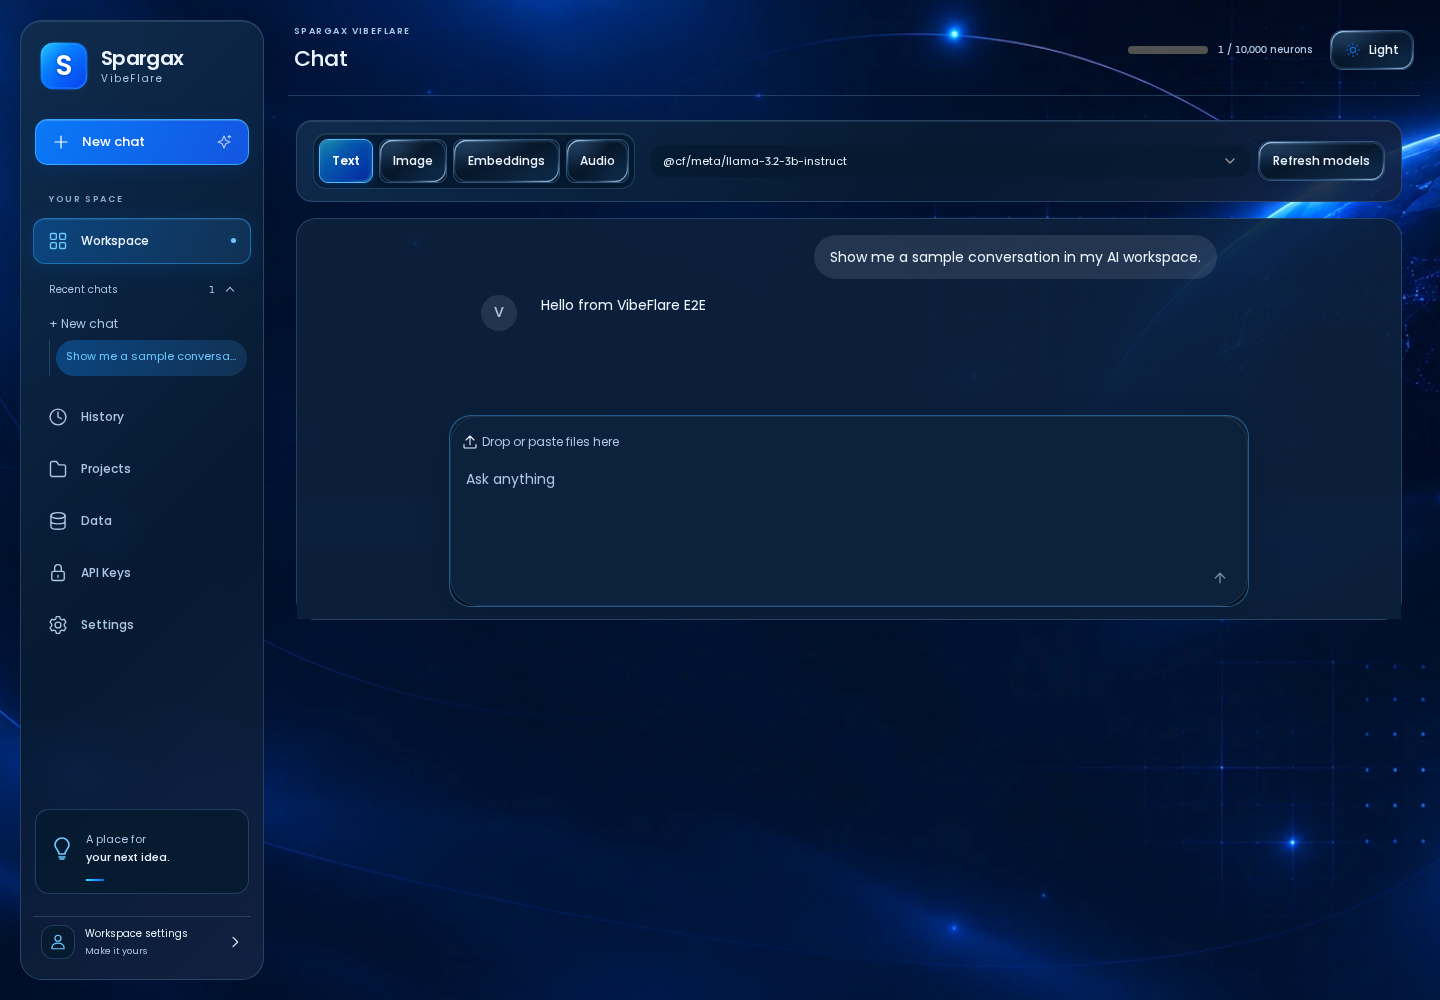
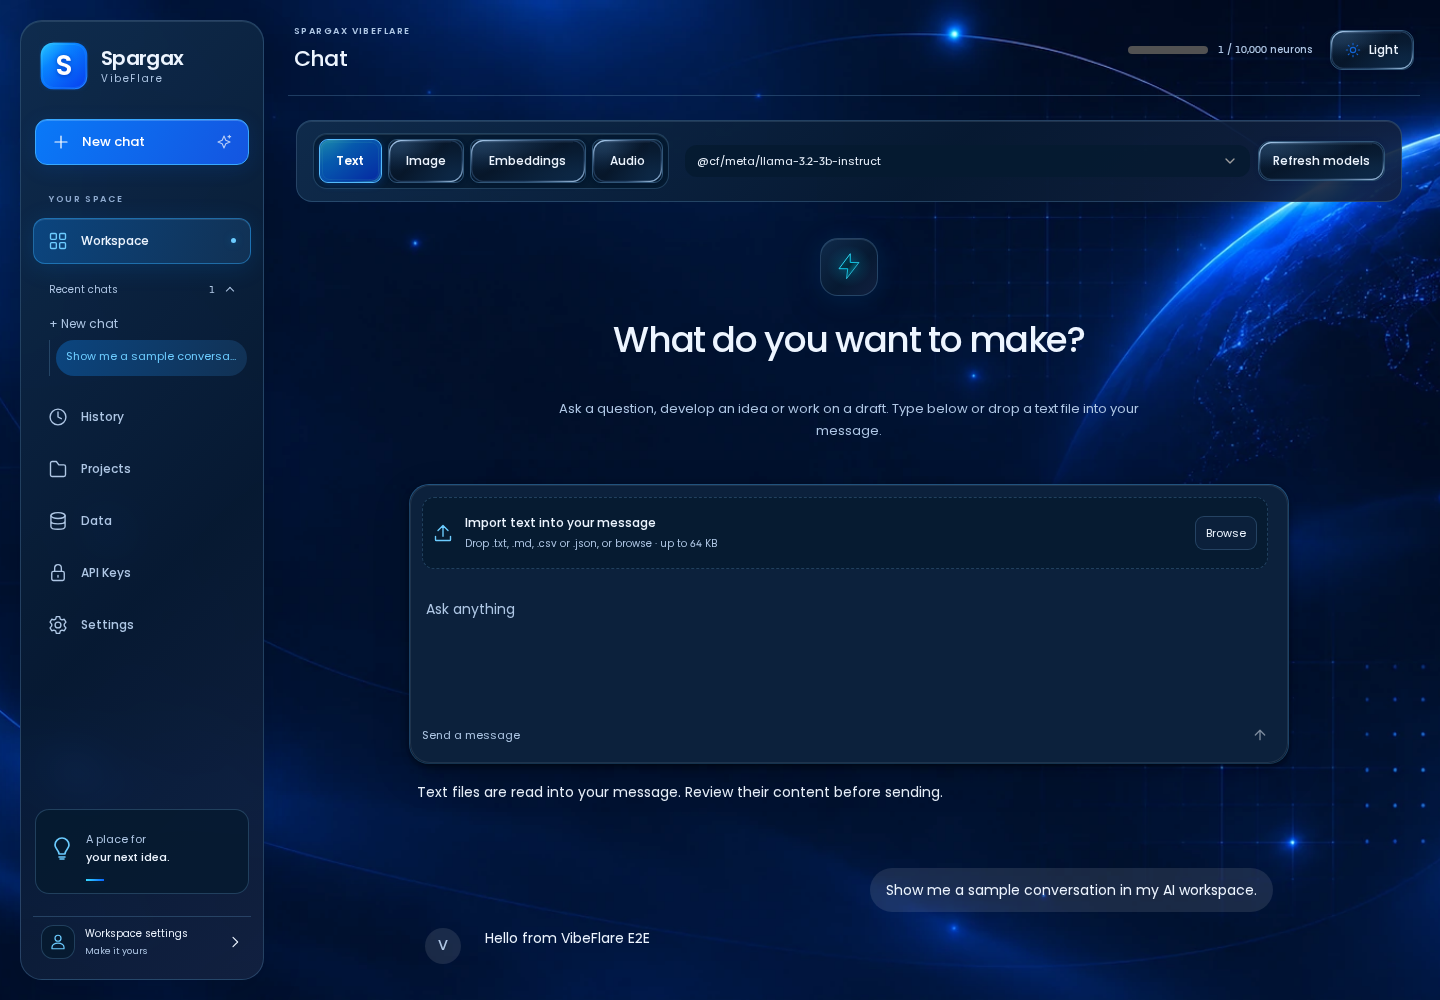
docs: record verified v0.9.6 deployment and refresh release screenshots

diff --git a/docs/releases/v0.9.6.md b/docs/releases/v0.9.6.md
@@ -1,0 +1,35 @@
+# VibeFlare v0.9.6 deployment and verification
+
+Deployed to https://vibeflare.shrill-moon-94bd.workers.dev on 2026-09-13.
+
+## Delivered changes
+
+Owned image, embedding and audio conversations now appear immediately in Workspace and reopen from History with saved results. Audio uploads use the correct Whisper/Turbo/Nova-3 interfaces; live-only Deepgram Flux is excluded from the upload picker and rejected before inference. The four task tabs share consistent panel geometry and accessible file drop/browse controls. Embeddings explain semantic search and provide complete JSON downloads. Text drops are actual model input, not silently ignored attachments.
+
+See [media-history.md](../media-history.md) and [task-workspace.md](../task-workspace.md) for behavior, retention, compatibility and provider references. Existing visible controls and personal model visibility/Settings deep links are retained. The concurrently completed README refresh was integrated and all eight screenshots were recaptured against the v0.9.6 local build, with hashes and source provenance.
+
+## Exact deployment
+
+- Worker version: `4426bcf0-cbe2-4e8b-9d6b-63bc79f7d44c`.
+- Deployment: `2c1a25a0-698b-43e7-9458-14cc9fd47e51` at `2026-09-13T11:33:40.288738Z`, serving 100% of traffic.
+- Uploaded application code: `8f1b2c6a0d948926ca9fe18340f15eb23fd02011`. Later commits only updated tests, screenshots and documentation/tooling; the deployed UI/Worker/shared application tree is unchanged.
+- Previous healthy version retained for rollback: `dfcfafb3-d095-44b0-89d2-b58b4cef894b`.
+
+The version was first staged at zero ordinary traffic. The first immediate static read still returned the previous HTML; later exact-build checks passed without changing or weakening the validator. Promotion happened only after the complete local browser gate passed. Ordinary no-override live checks then passed, including health v0.9.6, root routing, existing auth methods, five HTML page hashes, 19 linked runtime assets and desktop/mobile light/dark sign-in rendering. Before/after provider metadata confirms unchanged resource identities, variables, compatibility, observability, schedules and workers.dev/preview settings.
+
+No production migrations, account creation, inference calls or data resets were performed by this deployment. Authenticated model flows were tested against isolated local D1/R2/DO fixtures, not by impersonating a production member.
+
+## Verification
+
+- 153 Worker unit tests passed.
+- 68 UI unit tests passed, including the 15 newly integrated screenshot-target safety cases.
+- 26 CLI tests passed.
+- 103 browser tests passed; zero failures, retries, flaky or skipped tests. The final run did not update snapshots.
+- Production UI build generated all 17 routes. Worker types, Astro diagnostics, island-hydration audit, workflow contract and both generated Wrangler configurations passed.
+- Production dependency audit reported no known vulnerabilities. All 128 Club assets match the canonical manifest.
+- Eight intentionally changed chat/files baselines were visually reviewed before acceptance. Gallery-control measurement now waits for its own React island instead of measuring a detached server-rendered node.
+- Eight current README images and their version/source/checksum manifest passed verification.
+
+GitHub's self-hosted PR gate has no registered runner and did not execute. Its queued status is not counted as a successful CI run; the executable local test receipts above are the release evidence. No required checks or branch protections were disabled.
+
+Machine-readable receipts, exact test logs, screenshots and private before/after provider metadata are preserved under the VM's private archive: `/home/user/Projects/.archives/spargax-vibeflare-branch-cleanup-20260913/`. Old uncommitted source files are backed up and retained rather than discarded during merged-branch cleanup.
